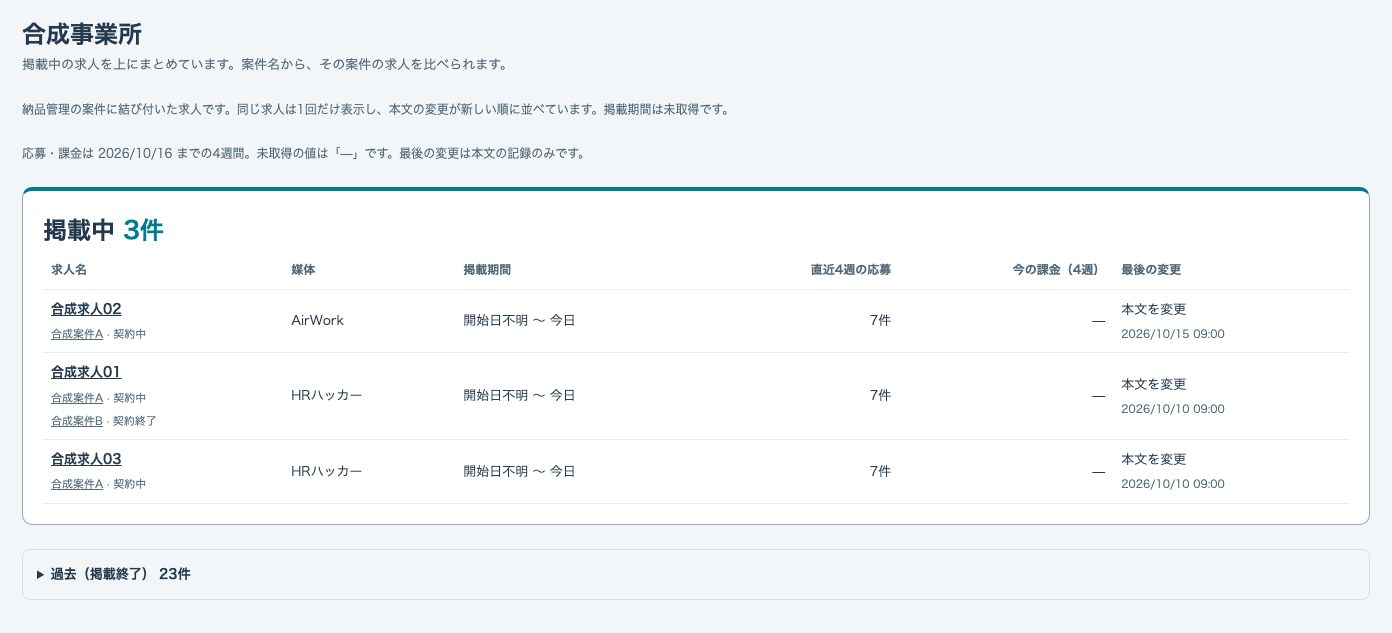
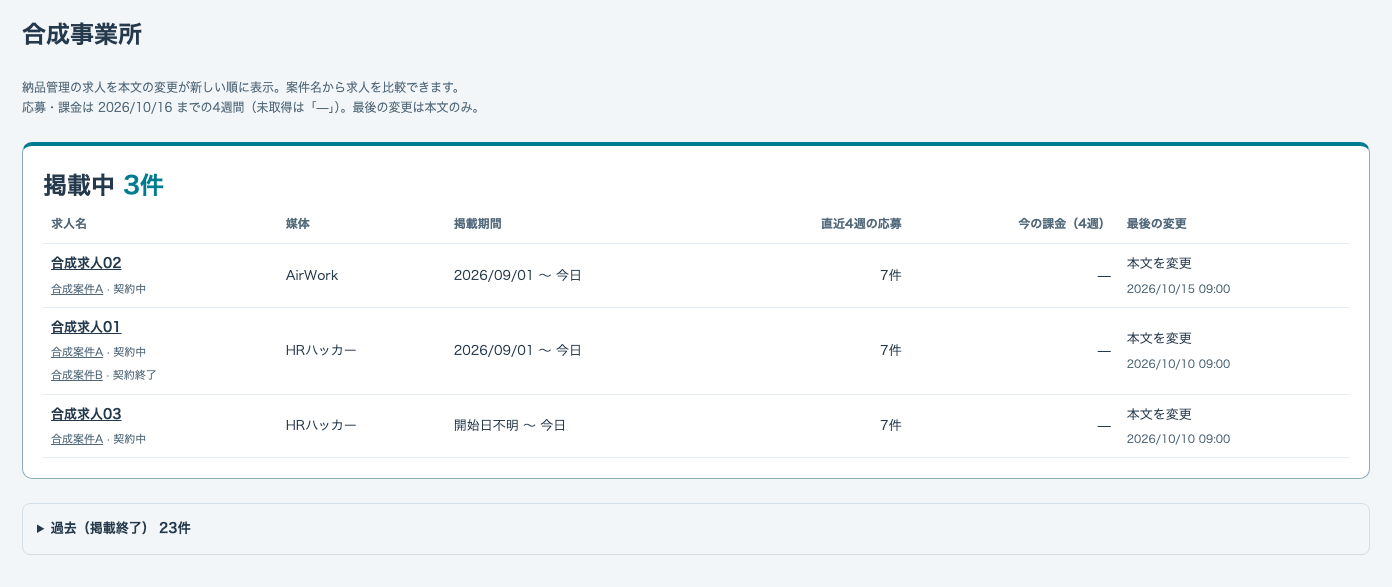
求人の掲載期間を索引から表示し説明を簡潔にする

diff --git a/frontend/src/screens/job-copy/CompanyListings.tsx b/frontend/src/screens/job-copy/CompanyListings.tsx
@@ -4,7 +4,7 @@ import type { CompanyDeal } from './companyDeals';
 import { dealName } from './companyDeals';
 import type { Billing, SummarySource } from './DealSummary';
 import { loadCompanyDatas } from './dealSummaryLoad';
-import { companyListingsModel } from './companyListingsModel';
+import { companyListingPeriod, companyListingsModel } from './companyListingsModel';
 import { mediaLabel, publicationLabel } from './hubspotListings';
 import type { HubSpotListing, HubSpotListingPage } from './hubspotListings';
 import { formatDateTimeJst } from './format';
@@ -57,19 +57,18 @@ export function CompanyListings({ companyId, deals, billingByJob, onOpenDeal, on
       <th scope="col">求人名</th><th scope="col">媒体</th><th scope="col">掲載期間</th><th scope="col" className="num">直近4週の応募</th><th scope="col" className="num">今の課金（4週）</th><th scope="col">最後の変更</th>
     </tr></thead><tbody>{items.slice(page * PAGE_SIZE, (page + 1) * PAGE_SIZE).map(item => <tr key={item.row.id} onClick={event => { if (!(event.target as HTMLElement).closest('button, a')) onOpenListing(item.row); }}>
       <th scope="row"><button type="button" className="jh-link" onClick={() => { onOpenListing(item.row); }}>{item.row.title ?? '求人名未取得'}</button><div className="jh-listing-deals">{item.deals.map(deal => <small key={deal.id}><button type="button" className="jh-link" onClick={() => { onOpenDeal({ id: deal.id, name: dealName(deal) }); }}>{dealName(deal)}</button> · {deal.stage_label ?? 'ステージ不明'}</small>)}</div></th>
-      <td>{mediaLabel(item.row.media)}</td><td>{item.live ? '開始日不明 〜 今日' : '開始日・終了日不明'}{!item.live && publicationLabel(item.row.publication_status) !== '掲載終了' && <small>掲載状況：{publicationLabel(item.row.publication_status)}</small>}</td>
+      <td>{mediaLabel(item.row.media)}</td><td>{companyListingPeriod(item.row)}{!item.live && publicationLabel(item.row.publication_status) !== '掲載終了' && <small>掲載状況：{publicationLabel(item.row.publication_status)}</small>}</td>
       <td className="num">{item.numbers?.recent == null ? '—' : `${String(item.numbers.recent)}件`}</td><td className="num">{yen(item.numbers?.billing ?? null)}</td>
       <td>{item.changedAt ? <>本文を変更<small>{formatDateTimeJst(item.changedAt, '日時不明')}</small></> : '変更日不明'}</td>
     </tr>)}</tbody></table></div> : <p>{label}の求人はありません。</p>}
     {items.length > PAGE_SIZE && <nav className="jh-pages" aria-label={`${label}のページ`}><button type="button" className="jc-button" disabled={page === 0} onClick={() => { setPage(page - 1); }}>前の20件</button><span>{String(page * PAGE_SIZE + 1)}〜{String(Math.min((page + 1) * PAGE_SIZE, items.length))} / {String(items.length)}件</span><button type="button" className="jc-button" disabled={(page + 1) * PAGE_SIZE >= items.length} onClick={() => { setPage(page + 1); }}>次の20件</button></nav>}
   </>;
   return <>
-    <p className="jh-note">納品管理の案件に結び付いた求人です。同じ求人は1回だけ表示し、本文の変更が新しい順に並べています。掲載期間は未取得です。</p>
     {source.status === 'loading' && <p role="status">応募・課金を読み込んでいます…</p>}
     {source.status === 'error' && <p role="alert">応募・課金を読み込めませんでした。求人は表示しています。</p>}
     {source.status === 'ready' && source.notes?.map(note => <p key={note} className="jh-note">応募・課金：{note}</p>)}
     {source.status === 'ready' && source.datas.some(data => data.capped || data.rows.length > 30) && <p className="jh-note">応募・課金は各案件で取得できた求人の分だけ表示しています。</p>}
-    <p className="jh-note">応募・課金は {formatDay(model.asOf)} までの4週間。未取得の値は「—」です。最後の変更は本文の記録のみです。</p>
+    <p className="jh-note">納品管理の求人を本文の変更が新しい順に表示。案件名から求人を比較できます。<br />応募・課金は {formatDay(model.asOf)} までの4週間（未取得は「—」）。最後の変更は本文のみ。</p>
     <section className="jh-live-listings" aria-labelledby="jh-live"><h2 id="jh-live">掲載中 <span>{String(model.live.length)}件</span></h2>{table(model.live, livePage, setLivePage, '掲載中')}</section>
     <details className="jh-past-listings"><summary>過去（掲載終了） {String(model.past.length)}件</summary><p className="jh-note">掲載前・掲載状況不明の求人もこちらに表示しています。</p>{table(model.past, pastPage, setPastPage, '過去')}</details>
   </>;

diff --git a/frontend/src/screens/job-copy/companyListingsModel.ts b/frontend/src/screens/job-copy/companyListingsModel.ts
@@ -5,6 +5,7 @@ import { companyRollup, dealCutoff, listingNumbers } from './dealSummaryModel';
 import type { Billing } from './DealSummary';
 import { publicationLabel } from './hubspotListings';
 import type { HubSpotListing } from './hubspotListings';
+import { formatDateJst } from './format';
 import { todayJst } from './timelineModel';
 
 /** 求人は顧客内で1回。公開状況は kyuujin_status から正規化済みの索引の値を使う。 */
@@ -18,4 +19,14 @@ export function companyListingsModel(rows: readonly HubSpotListing[], datas: rea
       deals: deals.filter(deal => row.deal_ids?.includes(deal.id) === true || datas.some(data => data.id === deal.id && data.rows.some(item => item.id === row.id))) };
   }).sort((a, b) => (b.changedAt ?? '').localeCompare(a.changedAt ?? '') || (a.row.title ?? '').localeCompare(b.row.title ?? '', 'ja') || a.row.id.localeCompare(b.row.id));
   return { live: items.filter(item => item.live), past: items.filter(item => !item.live), asOf };
+}
+
+/** 掲載終了日を優先。終了予定日時は予定と明記し、実際の終了日と区別する。 */
+export function companyListingPeriod(row: HubSpotListing): string {
+  const start = formatDateJst(row.listing_started_on, '開始日不明');
+  if (publicationLabel(row.publication_status) === '掲載中') return `${start} 〜 今日`;
+  const ended = formatDateJst(row.listing_ended_on);
+  if (ended) return `${start} 〜 ${ended}`;
+  const end = formatDateJst(row.listing_planned_end_on);
+  return `${start} 〜 ${end ? `${end}（終了予定）` : '終了日不明'}`;
 }

diff --git a/frontend/src/screens/job-copy/companyListingsModel.test.ts b/frontend/src/screens/job-copy/companyListingsModel.test.ts
@@ -1,5 +1,5 @@
 import { expect, it } from 'vitest';
-import { companyListingsModel } from './companyListingsModel';
+import { companyListingPeriod, companyListingsModel } from './companyListingsModel';
 import type { HubSpotListing } from './hubspotListings';
 import type { CompanyDeal } from './companyDeals';
 import type { DealData } from './dealSummaryLoad';
@@ -24,4 +24,14 @@ it('直近4週の応募7件と課金28000円を案件間で重複加算せず、
   expect(model.live[0]?.changedAt).toBe('2026-10-11T00:00:00Z');
   expect(model.past[0]?.numbers?.recent).toBeNull();
   expect(model.live).toHaveLength(1);
+});
+
+it('索引の開始日と終了予定日を表示し、掲載中は予定日に関係なく今日までにする', () => {
+  const live = { ...row('1', '公開中', null), listing_started_on: '2026-09-02', listing_planned_end_on: '2027-10-31' };
+  expect(companyListingPeriod(live)).toBe('2026/09/02 〜 今日');
+  expect(companyListingPeriod({ ...live, publication_status: '掲載終了', listing_planned_end_on: '2026-09-30' })).toBe('2026/09/02 〜 2026/09/30（終了予定）');
+  expect(companyListingPeriod({ ...live, publication_status: '掲載終了', listing_ended_on: '2026-10-15' })).toBe('2026/09/02 〜 2026/10/15');
+  expect(companyListingPeriod({ ...live, listing_ended_on: '2026-10-15' })).toBe('2026/09/02 〜 今日');
+  expect(companyListingPeriod({ ...live, listing_started_on: null })).toBe('開始日不明 〜 今日');
+  expect(companyListingPeriod(row('2', '掲載終了', null))).toBe('開始日不明 〜 終了日不明');
 });

diff --git a/frontend/src/screens/job-copy/hubspotListings.ts b/frontend/src/screens/job-copy/hubspotListings.ts
@@ -14,6 +14,7 @@ export interface HubSpotListing {
   /** 人が指定した「比べる Indeed 職種」。state: set / none（市場と比べない）/ unset。古い応答には無い。 */
   indeed_title?: string | null; indeed_title_state?: IndeedTitleState;
   draft_status?: DraftSnapshot['review_status'] | null;
+  listing_started_on?: string | null; listing_ended_on?: string | null; listing_planned_end_on?: string | null;
   deal_ids?: string[]; summary?: ListingSummary;
   publication_status: string | null; last_csv_detected_at: string | null; application_count: number | null;
 }
@@ -49,7 +50,7 @@ export interface HubSpotVersions {
   /** AirWork 求人の週ごとの実績（HubSpot の airwork_weekly_perf）。無い・読めないときは null。 */
   airwork_weekly_perf?: unknown;
   /** HubSpot の公開開始日時（koukai_kaishi_nichiji）の日付。無いとき null。 */
-  listing_started_on?: string | null;
+  listing_started_on?: string | null; listing_ended_on?: string | null;
   /** 公開状況の履歴（欄ごと、古い順）。 */
   status_history?: Record<string, { timestamp: string; value: string }[]>;
   listing: HubSpotListing;

diff --git a/frontend/src/screens/job-copy/CompanyView.tsx b/frontend/src/screens/job-copy/CompanyView.tsx
@@ -45,7 +45,7 @@ export function CompanyView({ company, billingByJob, onName, onOpenDeal, onOpenL
     setBusy(false);
   };
   return <main className="jc-detail jh-home" id="job-details" tabIndex={-1}>
-    <header className="jh-head"><div><h1>{company.name || (deals?.company.name ?? '顧客')}</h1><p>掲載中の求人を上にまとめています。案件名から、その案件の求人を比べられます。</p></div></header>
+    <header className="jh-head"><div><h1>{company.name || (deals?.company.name ?? '顧客')}</h1></div></header>
     {error && <p role="alert">{error}</p>}{busy && <p role="status">選んだ求人を読み込んでいます…</p>}
     {!deals && !error && <p role="status">求人を読み込んでいます…</p>}
     {deals && <CompanyListings companyId={company.id} deals={deals.deals} billingByJob={billingByJob} onOpenDeal={onOpenDeal} onOpenListing={row => { void open(row); }} />}

diff --git a/src/handlers/job_copy_live/listings.rs b/src/handlers/job_copy_live/listings.rs
@@ -92,6 +92,8 @@ const PROPERTIES: &[&str] = &[
     "baitai_genjoukyou_airwork",
     "saishuu_csv_kenshutsu_bi",
     "koukai_kaishi_nichiji",
+    "koukai_shuuryou_nichiji",
+    "keisaishuuryounichi",
     INDEED_TITLE_PROPERTY,
     INDEED_WEEKLY_PERF,
     AIRWORK_WEEKLY_PERF,
@@ -136,6 +138,10 @@ struct Listing {
     publication_status: Option<String>,
     draft_status: Option<String>,
     last_csv_detected_at: Option<String>,
+    listing_started_on: Option<String>,
+    listing_ended_on: Option<String>,
+    /// 終了予定日。実際の掲載終了日とは区別する。
+    listing_planned_end_on: Option<String>,
     deal_ids: Vec<String>,
     summary: Summary,
     /// Acquired body-derived values, including an acquired but empty body.
@@ -220,6 +226,9 @@ fn listing(record: &Record) -> Option<Listing> {
             .filter(|v| ["pending", "adopted", "rejected"].contains(v))
             .map(str::to_owned),
         last_csv_detected_at: record.value("saishuu_csv_kenshutsu_bi").map(str::to_owned),
+        listing_started_on: super::listing_status::day(record.value("koukai_kaishi_nichiji")),
+        listing_ended_on: super::listing_status::day(record.value("keisaishuuryounichi")),
+        listing_planned_end_on: super::listing_status::day(record.value("koukai_shuuryou_nichiji")),
     })
 }
 fn taxonomy(db: &crate::db::local_sqlite::LocalDb) -> Result<Vec<String>, ReadError> {
@@ -1737,6 +1746,9 @@ mod publication_count_tests {
             publication_status: status.map(str::to_owned),
             draft_status: None,
             last_csv_detected_at: None,
+            listing_started_on: None,
+            listing_ended_on: None,
+            listing_planned_end_on: None,
             deal_ids: vec![],
             summary: Summary::default(),
             body_summary: None,
@@ -2432,6 +2444,9 @@ mod tests {
                     assert!(!query.contains("shigotonaiyou"));
                     assert!(!query.contains("hrh_kyuujinhyou_honbun"));
                     assert!(query.contains("kyuujin_status"));
+                    assert!(query.contains("koukai_kaishi_nichiji"));
+                    assert!(query.contains("koukai_shuuryou_nichiji"));
+                    assert!(query.contains("keisaishuuryounichi"));
                 }
                 // Like HubSpot: history reads above 50 objects are rejected with 400.
                 if query.contains("propertiesWithHistory") && query.contains("limit=100") { return (StatusCode::BAD_REQUEST, Json(json!({"message":"You can only request at most 50 objects in one request for properties with history."}))).into_response(); }
@@ -2442,7 +2457,7 @@ mod tests {
                 let end = (start + 99).min(203);
                 let results: Vec<Value> = (start..=end).map(|id| {
                     let (pref, title, airwork) = if id <= 150 {("沖縄県", "看護師", false)} else if id <= 180 {("沖縄県", "看護師", true)} else if id <= 200 {("大分県", "ドライバー", false)} else {("沖縄県", "清掃スタッフ", false)};
-                    let mut properties = json!({"hs_name":format!("合成求人{id:03}"),"todoufuken":pref,"shikuchouson":"合成市","hrh_kyuujinhyou_honbun":format!("仕事内容：索引に残さない合成の長い本文\nIndeed表示職種名：{title}"),"zhizhong":title,"jobcopy_indeed_title":if title == "清掃スタッフ" { "" } else { title },"qinwude":format!("{pref}合成市"),"kyuujin_status":"公開中"});
+                    let mut properties = json!({"hs_name":format!("合成求人{id:03}"),"todoufuken":pref,"shikuchouson":"合成市","hrh_kyuujinhyou_honbun":format!("仕事内容：索引に残さない合成の長い本文\nIndeed表示職種名：{title}"),"zhizhong":title,"jobcopy_indeed_title":if title == "清掃スタッフ" { "" } else { title },"qinwude":format!("{pref}合成市"),"kyuujin_status":"公開中","koukai_kaishi_nichiji":"2026-09-01T15:30:00Z","koukai_shuuryou_nichiji":"2026-10-31T00:00:00Z","keisaishuuryounichi":"2026-10-15"});
                     if airwork { properties["id_airwork"] = json!(format!("AW-{id}")); properties["airwork_account_login_id"] = json!("synthetic-account"); }
                     else { properties["id_hrhakkaa"] = json!(format!("HR-{id}")); }
                     json!({"id":id.to_string(),"properties":properties})
@@ -2477,6 +2492,14 @@ mod tests {
         .await;
         let old = cache.state.read().await.snapshot.clone().unwrap();
         assert_eq!(old.records.len(), 203);
+        assert!(old
+            .records
+            .iter()
+            .all(
+                |row| row.listing_started_on.as_deref() == Some("2026-09-02")
+                    && row.listing_planned_end_on.as_deref() == Some("2026-10-31")
+                    && row.listing_ended_on.as_deref() == Some("2026-10-15")
+            ));
         assert!(old
             .records
             .iter()
@@ -2711,3 +2734,31 @@ mod index_loading_tests;
 #[path = "listing_index_summary.rs"]
 mod index_summary;
 use index_summary::{enrich_index_summaries, index_properties};
+
+#[cfg(test)]
+mod publication_period_tests {
+    use super::*;
+    #[test]
+    fn publication_days_are_exposed_for_both_media_without_history_reads() {
+        for media_id in ["id_hrhakkaa", "id_airwork"] {
+            for (start, end, expected_start, expected_end) in [
+                (
+                    "2026-09-01T15:30:00Z",
+                    "2026-10-31T00:00:00Z",
+                    Some("2026-09-02"),
+                    Some("2026-10-31"),
+                ),
+                ("", "bad-date", None, None),
+            ] {
+                let record: Record = serde_json::from_value(json!({"id":"42","properties":{
+                    media_id:"42", "koukai_kaishi_nichiji":start, "koukai_shuuryou_nichiji":end, "keisaishuuryounichi":end
+                }}))
+                .unwrap();
+                let row = serde_json::to_value(listing(&record).unwrap()).unwrap();
+                assert_eq!(row["listing_started_on"], json!(expected_start));
+                assert_eq!(row["listing_planned_end_on"], json!(expected_end));
+                assert_eq!(row["listing_ended_on"], json!(expected_end));
+            }
+        }
+    }
+}

diff --git a/src/handlers/job_copy_live/listing_snapshot_tests.rs b/src/handlers/job_copy_live/listing_snapshot_tests.rs
@@ -9,6 +9,7 @@ fn fixture(count: usize) -> Index {
             "title":format!("合成求人{}・配送と倉庫作業", n), "prefecture":"東京都", "municipality":"新宿区",
             "category":"配送", "indeed_title":"配送", "indeed_title_state":"set",
             "publication_status":"公開中", "draft_status":"adopted", "last_csv_detected_at":"2026-10-15",
+            "listing_started_on":"2026-09-01", "listing_ended_on":"2026-10-15", "listing_planned_end_on":"2026-10-31",
             "deal_ids":[(n%500+800000).to_string()], "summary":{
                 "occupation":"配送", "location":"東京都新宿区", "salary_kind":"月給",
                 "salary_min":(200000+n%10000).to_string(), "salary_max":"350000", "hours":"9:00〜18:00", "holidays":"週休2日", "body_changed_at":"2026-10-15T01:00:00Z"
@@ -69,7 +70,7 @@ async fn round_trip_and_reject_invalid_snapshots() {
         assert_same(&load(&audit).unwrap().unwrap(), &index);
         conn.lock()
             .unwrap()
-            .execute("UPDATE job_copy_index_snapshots SET version=1", [])
+            .execute("UPDATE job_copy_index_snapshots SET version=2", [])
             .unwrap();
         assert!(load(&audit).unwrap().is_none());
         save(&audit, &index).unwrap();
@@ -96,7 +97,11 @@ async fn round_trip_and_reject_invalid_snapshots() {
             data
         })
         .unwrap();
-        for (key, value_to_set) in [("version", json!(1)), ("index", json!({}))] {
+        for (key, value_to_set) in [
+            ("version", json!(1)),
+            ("version", json!(2)),
+            ("index", json!({})),
+        ] {
             let old = value[key].clone();
             value[key] = value_to_set;
             let mut gzip =

diff --git a/src/handlers/job_copy_live/listing_snapshot.rs b/src/handlers/job_copy_live/listing_snapshot.rs
@@ -4,9 +4,9 @@ use crate::audit::AuditDb;
 use base64::{engine::general_purpose::STANDARD, Engine};
 use std::io::{Read, Write};
 
-// v2 persists acquisition provenance for reusable ended-listing body summaries.
-// v1 cannot distinguish omitted bodies from acquired empty values and is discarded.
-const VERSION: i64 = 2;
+// v3: 各求人に掲載開始日・掲載終了日・終了予定日を保持する。
+// 古い形式には日付がないため復元しない。
+const VERSION: i64 = 3;
 // Base64 text stays at 1,000,000 bytes, leaving room for the pipeline envelope.
 const CHUNK_BYTES: usize = 750_000;
 const MAX_PARTS: usize = 128;

diff --git a/src/handlers/job_copy_live/listing_pipelines_tests.rs b/src/handlers/job_copy_live/listing_pipelines_tests.rs
@@ -29,6 +29,9 @@ fn listing(id: &str, deals: &[&str], status: &str, apps: Option<(i64, i64)>) -> 
         publication_status: Some(status.into()),
         draft_status: None,
         last_csv_detected_at: None,
+        listing_started_on: None,
+        listing_ended_on: None,
+        listing_planned_end_on: None,
         deal_ids: deals.iter().map(|d| d.to_string()).collect(),
         summary: Summary::default(),
         body_summary: None,

diff --git a/src/handlers/job_copy_live/listing_home_tests.rs b/src/handlers/job_copy_live/listing_home_tests.rs
@@ -59,6 +59,9 @@ pub(super) fn listing(
         publication_status: Some(status.into()),
         draft_status: None,
         last_csv_detected_at: None,
+        listing_started_on: None,
+        listing_ended_on: None,
+        listing_planned_end_on: None,
         deal_ids: deals.iter().map(|d| d.to_string()).collect(),
         summary: Summary::default(),
         body_summary: None,
